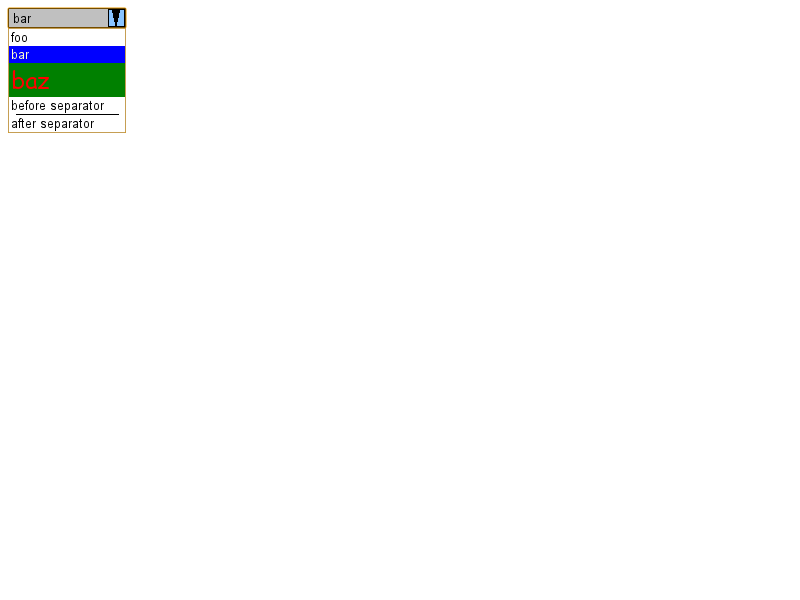
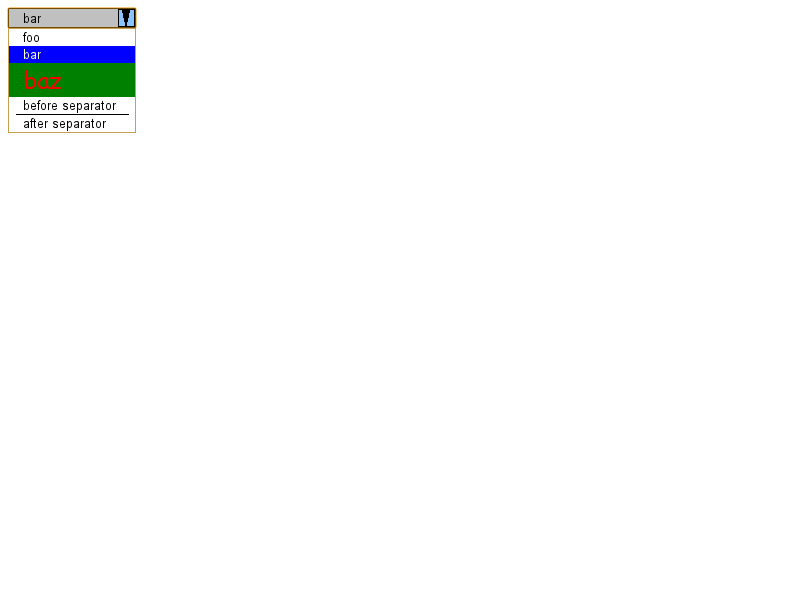
New SELECT Popup: Popup content should handle padding of the owner SELECT.
Popup contnet should handle padding of the owner SLECT element. However, this
doesn't mean we should copy the padding value of the SLECT element to the parent
of OPTIONs in the popup.
 - The background color of the selected item should occupy the whole width of
   the popup.
 - Separators should not affect the padding.
So, we need to add the padding value to each of OPTIONs and OPTGROUPs.

Also, this CL corrects RTL scrollbar.

BUG=464337

Review URL: https://codereview.chromium.org/990813003

git-svn-id: svn://svn.chromium.org/blink/trunk@191536 bbb929c8-8fbe-4397-9dbb-9b2b20218538

Changed region(s): [[0.0, 0.12, 0.125, 0.24], [0.125, 0.0, 0.1875, 0.18], [0.0, 0.03, 0.0625, 0.09]]

diff --git a/Source/web/resources/listPicker.js b/Source/web/resources/listPicker.js
@@ -159,6 +159,8 @@ ListPicker.prototype._listItemCount = function() {
 };
 
 ListPicker.prototype._layout = function() {
+    if (this._config.isRTL)
+        this._element.classList.add("rtl");
     this._updateChildren(this._selectElement, this._config);
     this._selectElement.value = this._config.selectedIndex;
 };
@@ -247,12 +249,16 @@ ListPicker.prototype._configureItem = function(element, config) {
         element.title = config.title;
         element.disabled = config.disabled;
         element.setAttribute("aria-label", config.ariaLabel);
+        element.style.webkitPaddingStart = this._config.paddingStart + "px";
+        element.style.webkitPaddingEnd = this._config.paddingEnd + "px";
     } else if (config.type === "optgroup") {
         element.label = config.label;
         element.title = config.title;
         element.disabled = config.disabled;
         element.setAttribute("aria-label", config.ariaLabel);
         this._updateChildren(element, config);
+        element.style.webkitPaddingStart = this._config.paddingStart + "px";
+        element.style.webkitPaddingEnd = this._config.paddingEnd + "px";
     } else if (config.type === "separator") {
         element.title = config.title;
         element.disabled = config.disabled;

diff --git a/LayoutTests/fast/forms/select/popup-menu-appearance-rtl.html b/LayoutTests/fast/forms/select/popup-menu-appearance-rtl.html
@@ -1,0 +1,44 @@
+<!DOCTYPE html>
+<html>
+<head>
+<script>
+window.enablePixelTesting = true;
+</script>
+<script src="../../../resources/js-test.js"></script>
+<script src="../resources/picker-common.js"></script>
+</head>
+<body>
+<select id="menu" style="margin-left: 100px; direction: rtl; padding-right: 20px; width: 130px; -webkit-appearance: none;">
+  <option>Item 01</option>
+  <option>Item 02</option>
+  <option>Item 03</option>
+  <option>Item 04</option>
+  <option>Item 05</option>
+  <option>Item 06</option>
+  <option>Item 07</option>
+  <option>Item 08</option>
+  <option>Item 09</option>
+  <option>Item 10</option>
+  <option>Item 11</option>
+  <option>Item 12</option>
+  <option>Item 13</option>
+  <option>Item 14</option>
+  <option>Item 15</option>
+  <option>Item 16</option>
+  <option>Item 17</option>
+  <option>Item 18</option>
+  <option>Item 19</option>
+  <option>Item 20</option>
+  <option>Item 21</option>
+  <option>Item 22</option>
+</select>
+<p id="description" style="opacity: 0"></p>
+<div id="console" style="opacity: 0"></div>
+<script>
+openPicker(menu, finishJSTest, function () {
+    testFailed('picker didn\'t open')
+    finishJSTest();
+});
+</script>
+</body>
+</html>

diff --git a/LayoutTests/fast/forms/select/popup-menu-appearance-styled.html b/LayoutTests/fast/forms/select/popup-menu-appearance-styled.html
@@ -9,6 +9,10 @@ window.enablePixelTesting = true;
 </head>
 <body>
 <style>
+select {
+    padding-left: 10px;
+}
+
 option.styled {
     font-style: italic;
     font-weight: bold;

diff --git a/Source/web/PopupMenuImpl.cpp b/Source/web/PopupMenuImpl.cpp
@@ -7,6 +7,7 @@
 
 #include "core/HTMLNames.h"
 #include "core/css/CSSFontSelector.h"
+#include "core/dom/NodeLayoutStyle.h"
 #include "core/dom/StyleEngine.h"
 #include "core/frame/FrameView.h"
 #include "core/html/HTMLHRElement.h"
@@ -100,6 +101,10 @@ void PopupMenuImpl::writeDocument(SharedBuffer* data)
     }
     PagePopupClient::addString("],\n", data);
     addProperty("anchorRectInScreen", anchorRectInScreen, data);
+    bool isRTL = !ownerElement().layoutStyle()->isLeftToRightDirection();
+    addProperty("isRTL", isRTL, data);
+    addProperty("paddingStart", isRTL ? m_client->clientPaddingRight().toDouble() : m_client->clientPaddingLeft().toDouble(), data);
+    addProperty("paddingEnd", isRTL ? m_client->clientPaddingLeft().toDouble() : m_client->clientPaddingRight().toDouble(), data);
     PagePopupClient::addString("};\n", data);
     data->append(Platform::current()->loadResource("pickerCommon.js"));
     data->append(Platform::current()->loadResource("listPicker.js"));

diff --git a/Source/core/page/PagePopupClient.cpp b/Source/core/page/PagePopupClient.cpp
@@ -93,6 +93,14 @@ void PagePopupClient::addProperty(const char* name, bool value, SharedBuffer* da
     addLiteral(",\n", data);
 }
 
+void PagePopupClient::addProperty(const char* name, double value, SharedBuffer* data)
+{
+    data->append(name, strlen(name));
+    addLiteral(": ", data);
+    addString(String::number(value), data);
+    addLiteral(",\n", data);
+}
+
 void PagePopupClient::addProperty(const char* name, const Vector<String>& values, SharedBuffer* data)
 {
     data->append(name, strlen(name));

diff --git a/Source/core/page/PagePopupClient.h b/Source/core/page/PagePopupClient.h
@@ -82,6 +82,7 @@ public:
     static void addProperty(const char* name, int value, SharedBuffer*);
     static void addProperty(const char* name, unsigned value, SharedBuffer*);
     static void addProperty(const char* name, bool value, SharedBuffer*);
+    static void addProperty(const char* name, double, SharedBuffer*);
     static void addProperty(const char* name, const Vector<String>& values, SharedBuffer*);
     static void addProperty(const char* name, const IntRect&, SharedBuffer*);
 };
